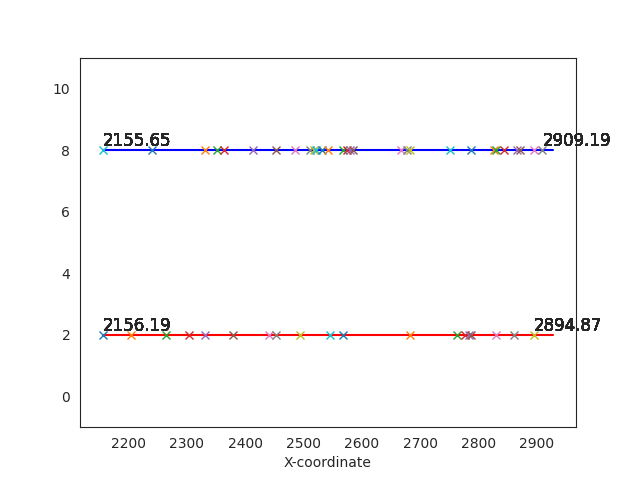
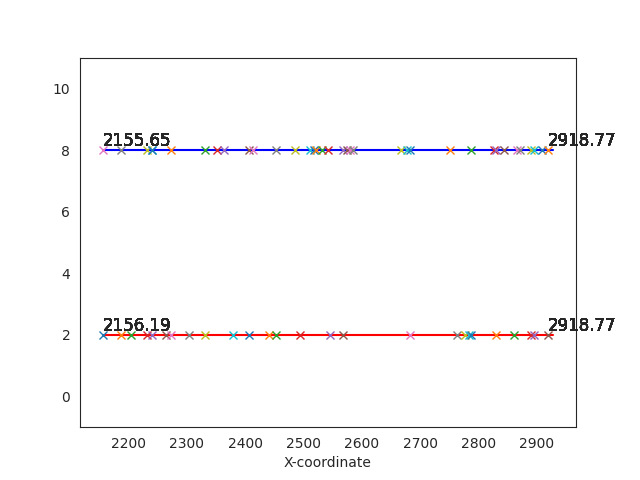
3 main known errors resolved

diff --git a/simulation/control_env.py b/simulation/control_env.py
@@ -49,13 +49,13 @@ class ControlEnv(gym.Env):
         self.prev_ped_waiting_time = {}
 
         self.vehicle_output_trips = self.vehicle_output_trips.replace('.xml', f'{self.unique_suffix}.xml')
-
         self.pedestrian_output_trips = self.pedestrian_output_trips.replace('.xml', f'{self.unique_suffix}.xml')
 
         # This list has to be gotten from the latest network. Will be populated dynamically during reset
         self.tl_ids = ['cluster_172228464_482708521_9687148201_9687148202_#5more'] # Intersection will always be present.
         
         self.previous_action = None
+        self.num_proposals = 0
         # Number of simulation steps that should occur for each action. 
         self.steps_per_action = int(self.action_duration / self.step_length) # This is also one of the dimensions of the size of the observation buffer
         self.per_timestep_state_dim = control_args['per_timestep_state_dim']
@@ -592,9 +592,9 @@ class ControlEnv(gym.Env):
             - Action = 0 means vehicle red (pedestrian green)
             - We only enfore a mandatory yellow phase if there is a 1 to 0 transition i.e., only consider this as a switch.
         """
-        # print(f"Current action: {current_action}, type: {type(current_action)}")
-        # print(f"Previous action: {previous_action}, type: {type(previous_action)}")
-        # print(f"TL ids: {self.tl_ids}, length: {len(self.tl_ids)}")
+
+        print(f"TL ids: {self.tl_ids}, length: {len(self.tl_ids)}")
+        print(f"Num proposals: {self.num_proposals}")
         
         current_action = ''.join(map(str, current_action))
         previous_action = ''.join(map(str, previous_action))
@@ -603,8 +603,8 @@ class ControlEnv(gym.Env):
         previous_intersection_action = previous_action[0:1]
         previous_mid_block_action = previous_action[1:]
         
-        # print(f"Previous actions: Intersection: {previous_intersection_action}, Midblock: {previous_mid_block_action}")
-        # print(f"Current actions: Intersection: {current_intersection_action}, Midblock: {current_mid_block_action}")
+        print(f"Previous actions: Intersection: {previous_intersection_action}, Midblock: {previous_mid_block_action}")
+        print(f"Current actions: Intersection: {current_intersection_action}, Midblock: {current_mid_block_action}")
         
         switch_state = []
         intersection_switch = [int(c1 == '0' and c2 == '1') or int(c1 == '1' and c2 == '0') or int(c1 == '2' and c2 == '0') for c1, c2 in zip(previous_intersection_action, current_intersection_action)]
@@ -613,14 +613,14 @@ class ControlEnv(gym.Env):
         switch_state.extend(midblock_switch)
         # print(f"Switch state: {switch_state}")
         # breakpoint()
-        # For the plot, also detect all the switches.
-        full_switch_state = []
-        for i in range(len(current_action)):
-            full_switch_state.append(int(current_action[i] != previous_action[i]))
-        
+
+        # For the plot, also detect all the switches (full = as long as the phase changes).
+        # full_switch_state = []
+        # for i in range(len(current_action)):
+        #     full_switch_state.append(int(current_action[i] != previous_action[i]))
         # print(f"Full switch state: {full_switch_state}\n")
 
-        return switch_state, full_switch_state
+        return switch_state, []
 
     def _get_observation(self, current_phase, print_map=False):
         """
@@ -785,7 +785,6 @@ class ControlEnv(gym.Env):
         
         # Midblock
         print(f"\nSwitch state: {switch_state}\n")
-
         for i in range(1, len(self.tl_ids)):
             print(f"i: {i}")
             print(f"TL: {self.tl_ids[i]}")
@@ -1174,7 +1173,7 @@ class ControlEnv(gym.Env):
         """
         return self.step_count >= self.max_timesteps
 
-    def reset(self, extreme_edge_dict, tl= False):
+    def reset(self, extreme_edge_dict, num_proposals, tl= False):
         """
         """
         # if self.sumo_running:
@@ -1236,9 +1235,14 @@ class ControlEnv(gym.Env):
         self.step_count = 0 # This counts the timesteps in an episode. Needs reset.
         
         # Get the actual traffic light IDs from the current network (add new ones)
-        self.tl_ids.extend([tl_id for tl_id in traci.trafficlight.getIDList() if tl_id not in self.tl_ids])
-        #print(f"Traffic light IDs in current network: {self.tl_ids}")
+        new_tl_ids = [tl_id for tl_id in traci.trafficlight.getIDList() if tl_id not in self.tl_ids]
 
+        if num_proposals != len(new_tl_ids):
+            raise ValueError(f"Number of proposals ({num_proposals}) does not match the number of traffic light IDs ({len(new_tl_ids)}, {new_tl_ids})")
+        
+        self.tl_ids.extend(new_tl_ids)
+        #print(f"Traffic light IDs in current network: {self.tl_ids}")
+        self.num_proposals = num_proposals
         self.dynamically_populate_edges_lanes(extreme_edge_dict)
 
         # Warmup period

diff --git a/ppo/models.py b/ppo/models.py
@@ -101,7 +101,7 @@ class MLP_ActorCritic(nn.Module):
         TODO: Is there a bias in log_prob because of the number of proposals?
         How to propoerly handle the rest (is ignoring them good?)
         """
-        # print("Sampling...")
+        print(f"Sampling actions for intersection and {num_proposals} midblock proposals...")
         state = state.reshape(1, 1, state.shape[0], state.shape[1])
         action_logits = self.actor(state)
 
@@ -117,15 +117,15 @@ class MLP_ActorCritic(nn.Module):
         midblock_dist = Bernoulli(logits=midblock_logits)
         midblock_actions = midblock_dist.sample()  # shape [1,num_proposals]
 
-        # print(f"\nIntersection logits: {intersection_logits}")
-        # print(f"\nMidblock logits: {midblock_logits}")
+        print(f"\nIntersection logits: {intersection_logits}")
+        print(f"\nMidblock logits: {midblock_logits}")
 
-        # print(f"\nIntersection action: {intersection_action}")
-        # print(f"\nMidblock actions: {midblock_actions}")
+        print(f"\nIntersection action: {intersection_action}")
+        print(f"\nMidblock actions: {midblock_actions}")
         
         combined_action = torch.cat([intersection_action, midblock_actions.squeeze(0)], dim=0)
-        # print(f"\nCombined action: {combined_action}")
-
+        print(f"\nCombined action: {combined_action}")
+        
         log_prob = intersection_dist.log_prob(intersection_action) + \
                    midblock_dist.log_prob(midblock_actions).sum()
 
@@ -692,10 +692,14 @@ class GAT_v2_ActorCritic(nn.Module):
             cbar.set_label('Density', fontweight='bold', fontsize=fs)
             cbar.ax.tick_params(labelsize=fs-2)
 
+            # Get and plot component means
+            means = gmm_single.component_distribution.loc.detach().cpu().numpy()
+            ax.scatter(means[:, 0], means[:, 1], c='blue', marker='o', s=120, edgecolors='black', label='Component Means', zorder=11)
+
             locations, thicknesses = markers
             ax.scatter(locations, thicknesses, c='r', marker='x', s=100, label='Samples Drawn', zorder=10)
             legend = ax.legend(loc='upper right', frameon=True, framealpha=1.0)
-            legend.set_zorder(11)  
+            legend.set_zorder(12) # Ensure legend is on top
             
             ax.set_xlabel('Location', fontweight='bold', fontsize=fs)
             ax.set_ylabel('Thickness', fontweight='bold', fontsize=fs)

diff --git a/simulation/design_env.py b/simulation/design_env.py
@@ -417,8 +417,8 @@ class DesignEnv(gym.Env):
         latest_horizontal_nodes_bottom_ped = self.horizontal_nodes_bottom_ped
 
         for i, (location, thickness) in enumerate(proposals):
-            location = round(location.item(), 2) # round to prevent going out of bounds.
-            thickness = round(thickness.item(), 2)
+            location = location.item() 
+            thickness = thickness.item()
 
             # 1. Denormalize the location (x-coordinate) and thickness
             denorm_location = self.normalizer_x['min'] + location * (self.normalizer_x['max'] - self.normalizer_x['min'])
@@ -509,9 +509,9 @@ class DesignEnv(gym.Env):
         for side in ['top', 'bottom']:
             intersections[side] = {}
             intersect = self._find_segment_intersects_ped(latest_horizontal_segment[side], x_location)
-            print(f"\nLatest horizontal segment: {latest_horizontal_segment[side]}")
-            print(f" Bounds of the graph: min x: {min([data['pos'][0] for _, data in latest_graph.nodes(data=True)])} max x: {max([data['pos'][0] for _, data in latest_graph.nodes(data=True)])}")
-            print(f"\n{side} Intersect: {intersect}\n")
+            # print(f"\nLatest horizontal segment: {latest_horizontal_segment[side]}")
+            # print(f" Bounds of the graph: min x: {min([data['pos'][0] for _, data in latest_graph.nodes(data=True)])} max x: {max([data['pos'][0] for _, data in latest_graph.nodes(data=True)])}")
+            # print(f"\n{side} Intersect: {intersect}\n")
 
             from_node, to_node = intersect['edge'][0], intersect['edge'][1]
             

diff --git a/config.py b/config.py
@@ -75,7 +75,7 @@ def get_config():
         "lower_num_processes": 8,  # Number of parallel processes to use (agent has multiple workers)
         "lower_model_size": "medium",  # Model size for CNN: 'small' or 'medium'
         "lower_dropout_rate": 0.25,  # Dropout rate for CNN
-        "lower_action_dim": 7 + 4,  # 7 + 4 for simple action. Number of action logits (not the same as number of actions. think about it)
+        "lower_action_dim": None, # will be set later
         "lower_in_channels": 1, # in_channels for cnn
         "lower_activation": "tanh",  # Policy activation function
         "lower_max_timesteps": 200,  # Maximum number of steps in one episode (make this multiple of 16*10)
@@ -184,7 +184,7 @@ def classify_and_return_args(train_config, device):
 
     lower_ppo_args = {
         'model_dim': train_config['lower_in_channels'], 
-        'action_dim': train_config['lower_action_dim'],
+        'action_dim': train_config['max_proposals'] + 4, # 4 for intersection action and max_proposals for midblock actions.
         'device': device,
         'lr': train_config['lower_lr'],
         'gamma': train_config['lower_gamma'],

diff --git a/simulation/worker.py b/simulation/worker.py
@@ -36,7 +36,7 @@ def parallel_train_worker(rank,
     memory_transfer_freq = control_args['memory_transfer_freq']  # Get from config
     local_memory = Memory() # A worker instance must have their own memory 
 
-    state, _ = worker_env.reset(extreme_edge_dict)
+    state, _ = worker_env.reset(extreme_edge_dict, num_proposals)
     ep_reward = 0
     steps_since_update = 0
 
